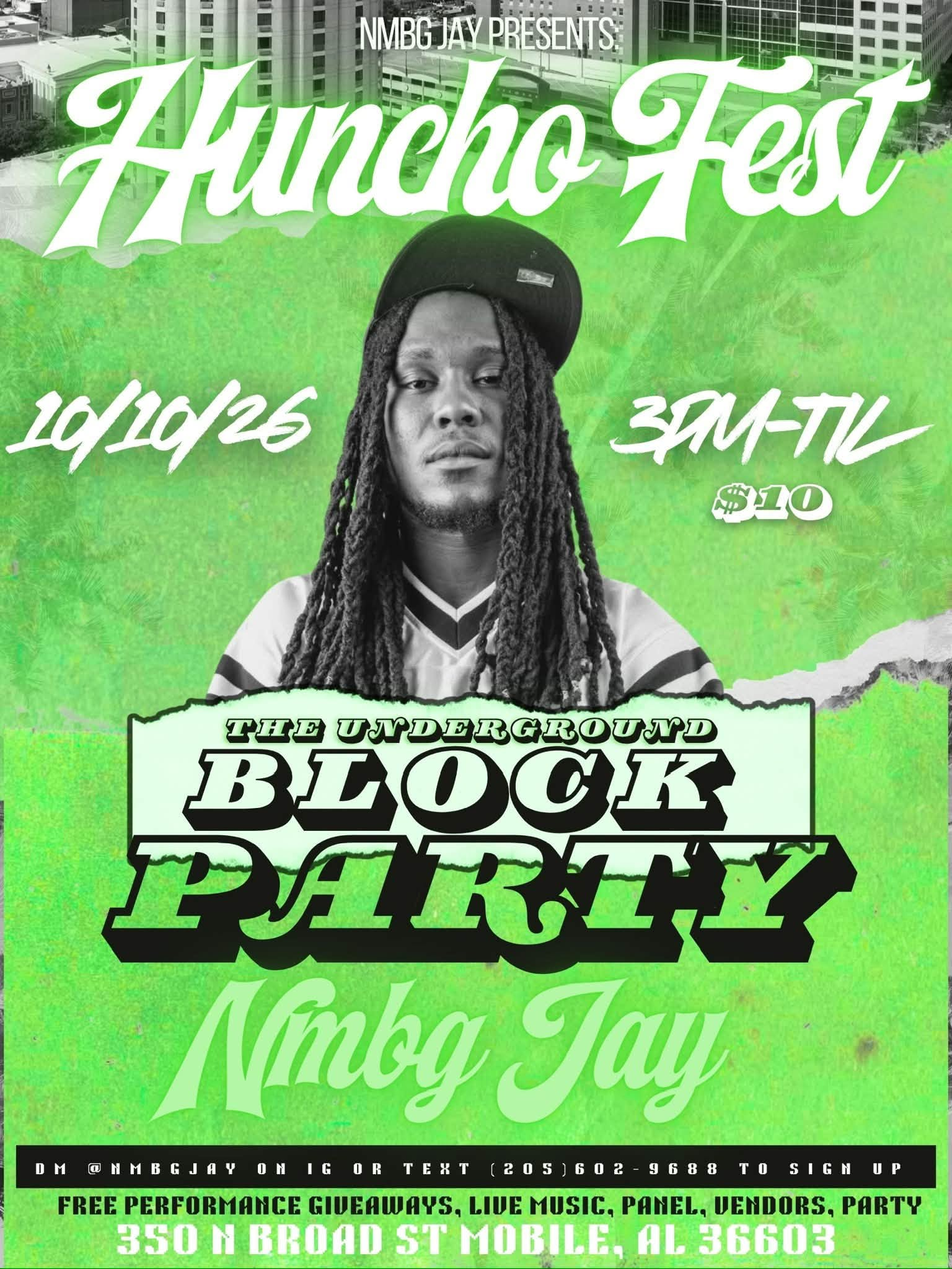
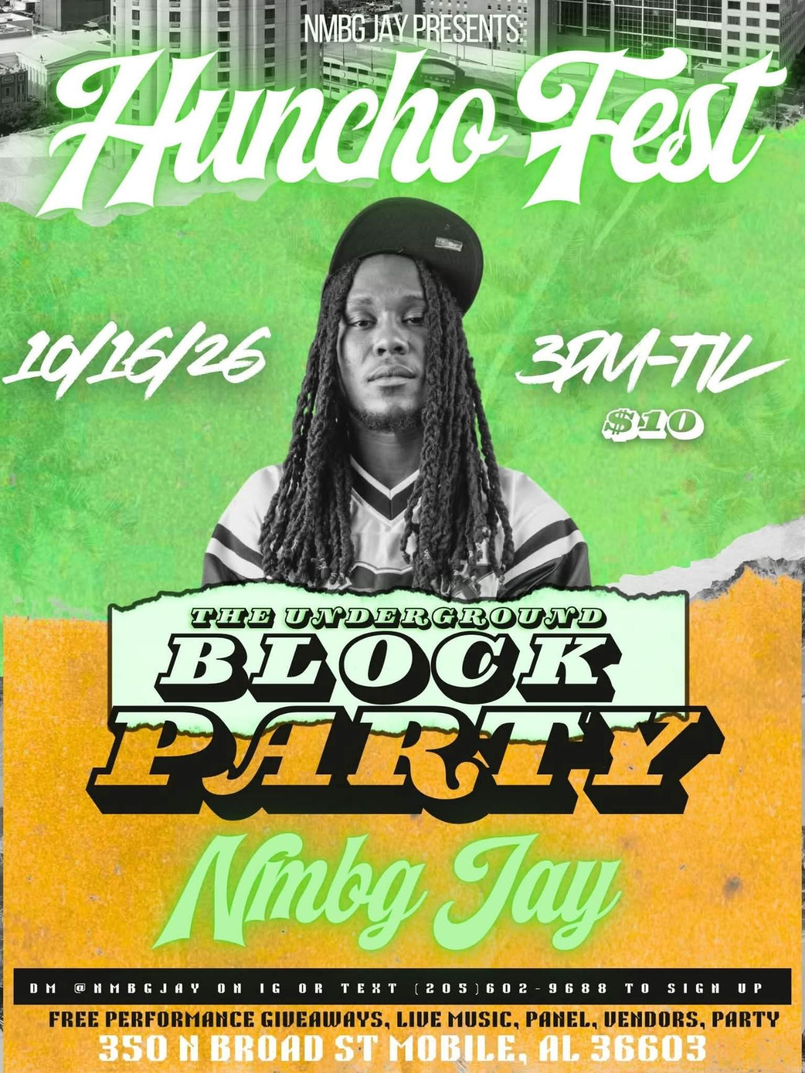
Update event date to October 16, 2026 after storm cancellation
- Replaced flyer.jpg with updated flyer for 10/16/26
- Updated all date references in Hero, metadata, JSON-LD, and README
- Original Oct 10 show canceled due to storm; rescheduled for this Friday

diff --git a/src/app/layout.tsx b/src/app/layout.tsx
@@ -11,11 +11,11 @@ const inter = Inter({
 export const metadata: Metadata = {
   title: "NMBG Jay Presents: Huncho Fest | The Underground Block Party",
   description:
-    "NMBG Jay Presents: Huncho Fest - The Underground Block Party on Saturday, October 10, 2026 at 350 N Broad St, Mobile, AL. $10 entry, live music, vendor market, artist panel, and performance giveaways.",
+    "NMBG Jay Presents: Huncho Fest - The Underground Block Party on Friday, October 16, 2026 at 350 N Broad St, Mobile, AL. $10 entry, live music, vendor market, artist panel, and performance giveaways.",
   openGraph: {
     title: "NMBG Jay Presents: Huncho Fest | The Underground Block Party",
     description:
-      "Saturday, October 10, 2026 • 3 PM TIL at 350 N Broad St, Mobile, AL. $10 Entry.",
+      "Friday, October 16, 2026 • 3 PM TIL at 350 N Broad St, Mobile, AL. $10 Entry.",
     url: "https://hunchofest.com",
     siteName: "Huncho Fest",
     images: [
@@ -32,7 +32,7 @@ export const metadata: Metadata = {
     card: "summary_large_image",
     title: "NMBG Jay Presents: Huncho Fest | The Underground Block Party",
     description:
-      "Saturday, October 10, 2026 • 3 PM TIL at 350 N Broad St, Mobile, AL. $10 Entry.",
+      "Friday, October 16, 2026 • 3 PM TIL at 350 N Broad St, Mobile, AL. $10 Entry.",
     images: ["https://hunchofest.com/flyer.jpg"],
   },
   metadataBase: new URL("https://hunchofest.com"),
@@ -44,8 +44,8 @@ const jsonLd = {
   name: "NMBG Jay Presents: Huncho Fest",
   description:
     "The Underground Block Party featuring live music, artist panel, local vendors, and free performance giveaways.",
-  startDate: "2026-10-10T15:00:00-05:00",
-  endDate: "2026-10-11T00:00:00-05:00",
+  startDate: "2026-10-16T15:00:00-05:00",
+  endDate: "2026-10-17T00:00:00-05:00",
   eventStatus: "https://schema.org/EventScheduled",
   eventAttendanceMode: "https://schema.org/OfflineEventAttendanceMode",
   location: {

diff --git a/src/components/Hero.tsx b/src/components/Hero.tsx
@@ -53,7 +53,7 @@ export function Hero() {
                   <line x1="8" x2="8" y1="2" y2="6" />
                   <line x1="3" x2="21" y1="10" y2="10" />
                 </svg>
-                October 10, 2026 (10/10/26)
+                October 16, 2026 (10/16/26)
               </div>
 
               {/* Time Badge */}

diff --git a/README.md b/README.md
@@ -2,7 +2,7 @@
 
 **NMBG Jay Presents: Huncho Fest — The Underground Block Party**
 
-📅 October 10, 2026 (10/10/26) · 📍 350 N Broad St, Mobile, AL 36603 · 💰 $10 Entry · ⏰ 3 PM – TIL
+📅 October 16, 2026 (10/16/26) · 📍 350 N Broad St, Mobile, AL 36603 · 💰 $10 Entry · ⏰ 3 PM – TIL
 
 ## Tech Stack
 
